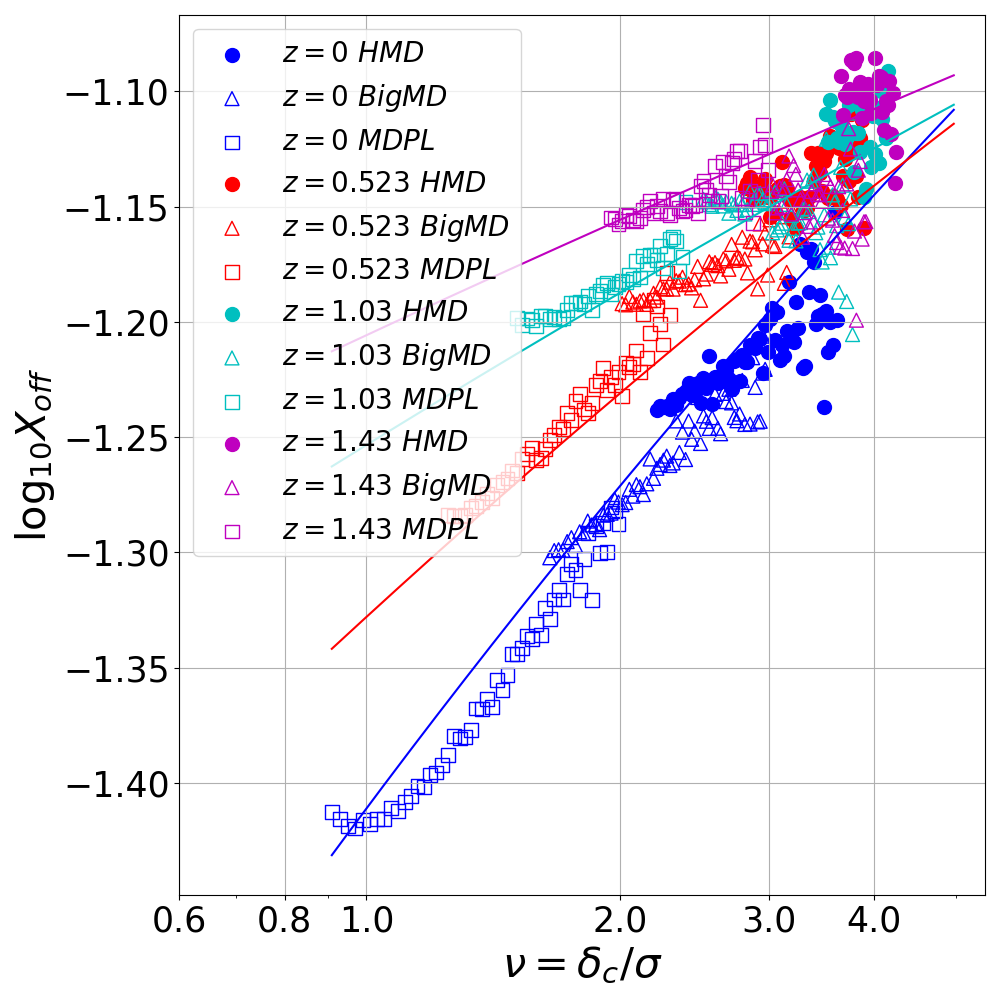
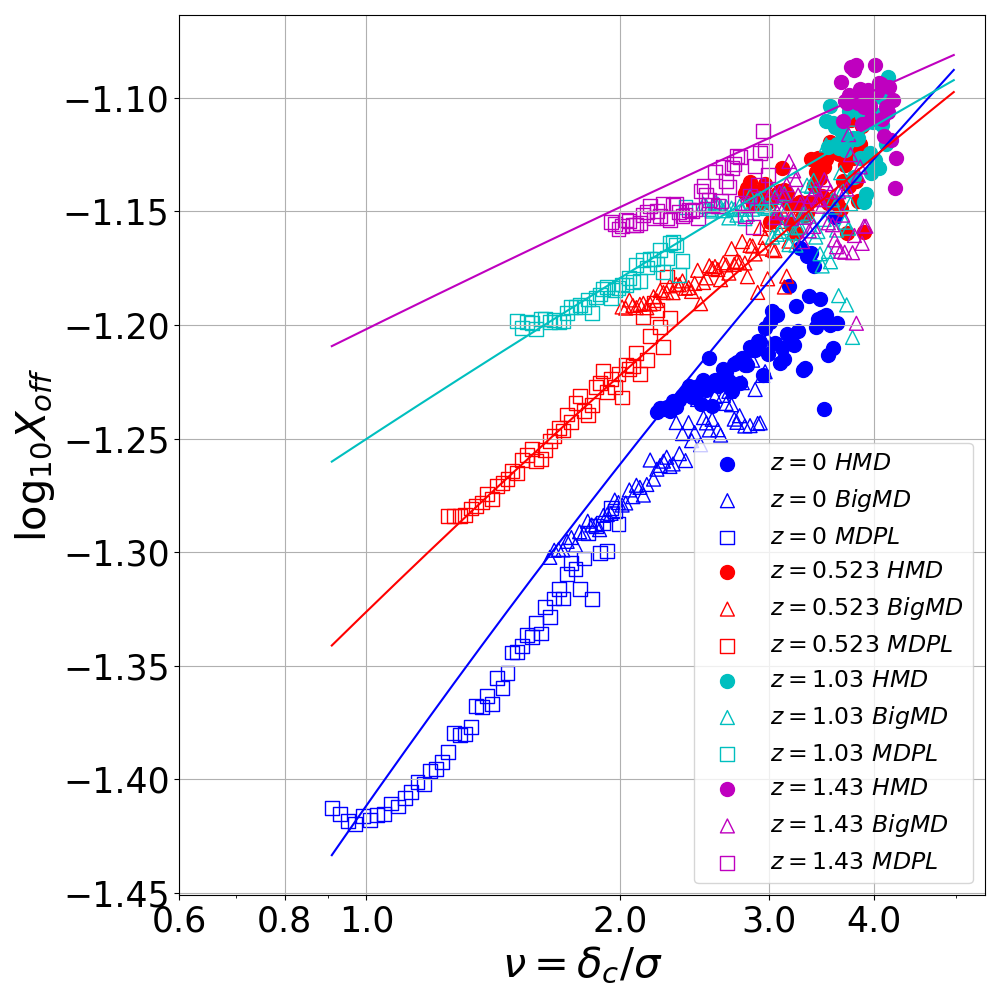
update README and xoff fit

diff --git a/Rvir/xoff/xoff_sigma_relation_Rvir.py b/Rvir/xoff/xoff_sigma_relation_Rvir.py
@@ -224,27 +224,28 @@ for i, p2s in enumerate(path_2_snapshot_data):
 
 #computing averages on each cube
     xoff_err1 = xoff_std1/np.sqrt(xoff_N1)
-
     ind_one = ((peak_array > cuts_HMD_low[i]) & (~np.isnan(xoff_av1)) & (xoff_N1 > 100))
     peak_array_1 = np.array(peak_array[ind_one])
     z1_ = np.array(z1[ind_one])
     xoff_av_1 = np.array(xoff_av1[ind_one])
-    #xoff_err_ = 10*np.array(xoff_err[~np.isnan(xoff_av)])
-    xoff_err_1 = 0.1*xoff_av_1
-    xoff_err2 = xoff_std2/np.sqrt(xoff_N2)
+    xoff_err_1 = 1/np.log(10)*xoff_err1[ind_one]/10**xoff_av_1
+#    xoff_err_1 = 0.1*xoff_av_1
 
+    xoff_err2 = xoff_std2/np.sqrt(xoff_N2)
     ind_two = ((peak_array > cuts_BigMD_low[i]) & (peak_array < cuts_BigMD_up[i]) & (~np.isnan(xoff_av2))& (xoff_N2 > 100))
     peak_array_2 = np.array(peak_array[ind_two])
     z2_ = np.array(z2[ind_two])
     xoff_av_2 = np.array(xoff_av2[ind_two])
-    xoff_err_2 = 0.1*xoff_av_2
-    xoff_err3 = xoff_std3/np.sqrt(xoff_N3)
+    xoff_err_2 = 1/np.log(10)*xoff_err2[ind_two]/10**xoff_av_2
+#    xoff_err_2 = 0.1*xoff_av_2
 
+    xoff_err3 = xoff_std3/np.sqrt(xoff_N3)
     ind_three = ((peak_array > cuts_MDPL_low[i]) & (peak_array < cuts_MDPL_up[i]) & (~np.isnan(xoff_av3)) & (xoff_N3 > 100))
     peak_array_3 = np.array(peak_array[ind_three])
     z3_ = np.array(z3[ind_three])
     xoff_av_3 = np.array(xoff_av3[ind_three])
-    xoff_err_3 = 0.1*xoff_av_3
+    xoff_err_3 = 1/np.log(10)*xoff_err3[ind_three]/10**xoff_av_3
+#    xoff_err_3 = 0.1*xoff_av_3
 
     ax1.scatter(peak_array_1,xoff_av_1, label = r'$z= %.3g\ HMD$'%(z_snap), ls='None',c='%.c'%(colors[i]),marker='o',facecolors='none',s=100)
 
@@ -363,7 +364,7 @@ ax1.ticklabel_format(axis='both', style='plain')
 
 #ax1_sec.ticklabel_format(axis='x', style='plain')
 #ax1_sec2.ticklabel_format(axis='y', style='plain')
-ax1.legend(fontsize=20)
+ax1.legend(fontsize=17)
 ax1.set_xlabel(r'$\nu = \delta_c/\sigma$', fontsize=30)
 ax1.set_ylabel(r'$\log_{10}X_{off}$', fontsize=30)
 #ax1_sec2.set_ylabel(r'$X_{off}\ [kpc]$', fontsize=20, labelpad=15)
@@ -378,6 +379,29 @@ outfi1 = os.path.join(this_dir,'figures','relation_xoff_sigma_Rvir.png')
 os.makedirs(os.path.dirname(outfi1), exist_ok=True)
 fig1.savefig(outfi1, overwrite=True)
 
+
+#make fill between plot 
+z_arr = np.unique(z_full)
+plt.figure(0,(10,10))
+
+for red in z_arr:
+    sel = (z_full==red)
+    peak = peak_array_full[sel]
+    y = xoff_full[sel]
+    dy = xoff_err_full[sel]    
+    plt.fill_between(peak,y-dy,y+dy,color='%.c'%(colors[k]))
+plt.grid(True)
+plt.xscale('log')
+plt.xticks([0.6,0.8,1,2,3,4])
+plt.gca().xaxis.set_major_formatter(ScalarFormatter())
+plt.gca().yaxis.set_major_formatter(ScalarFormatter())
+plt.gca().ticklabel_format(axis='both', style='plain')
+plt.legend(fontsize=17)
+plt.xlabel(r'$\nu = \delta_c/\sigma$', fontsize=30)
+plt.ylabel(r'$\log_{10}X_{off}$', fontsize=30)
+plt.tick_params(labelsize=25)
+plt.tight_layout()
+outf=os.path.join(this_dir,'figures','relation_xoff_sigma_Rvir_err.png')
 print(popt1)
 
 sys.exit()

diff --git a/README.md b/README.md
@@ -3,4 +3,16 @@ HMF_seppi20
 
 Code developed for computation and fitting in Seppi et al. 2020
 
+== physical directory==
+
+- mean relations: mean relations between concentration, spin and Xoff,P with mass. Probability density distributions of concentration, spin, Xoff,P. 
+- build and fit the mass-offset-spin-z function in physical units. 
+
+
+== Rvir directory==
+
+- xoff: offset-mass relation and distribution of xoff.
+- build and fit the mass-offset-spin-z function normalized to the virial radius. 
+
+
 todo: add more documentation
